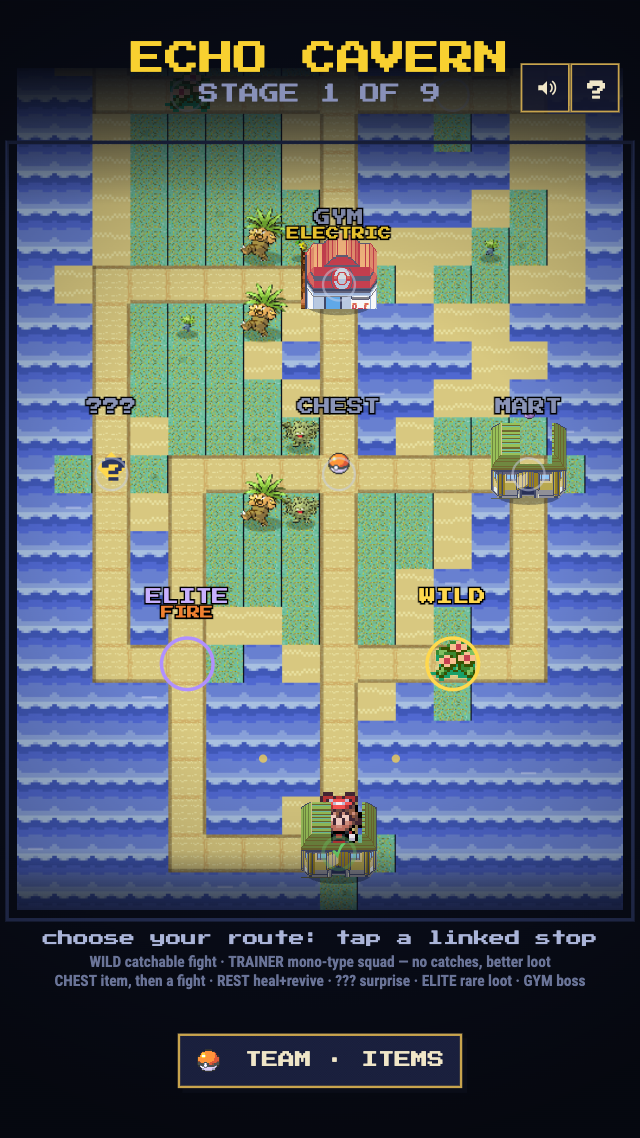
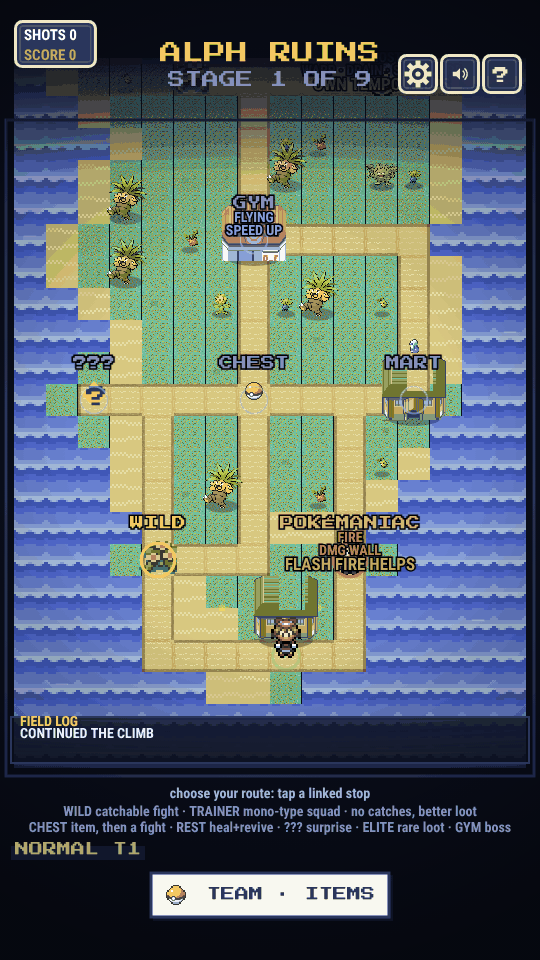
Refresh README screenshots and feature list, map new modules, backfill tracker

diff --git a/README.md b/README.md
@@ -3,34 +3,39 @@
 **Monster Strike physics in a Pokémon skin, with a Slay the Spire climb.**
 Pull back, launch your Pokémon, and bounce it around the arena smashing wild
 mons. Draft a team of 4, climb 9 stages, and take down all three gym
-leaders to win the run — or hit **DAILY** for the one seed everyone's
-climbing today.
+leaders to win the run.
 
 **Play it:** https://albisourous.github.io/pokestrike/
 
-| Title | Draft | Battle |
+| Climb home | Shop | Mons |
 | --- | --- | --- |
-| ![title screen](docs/title.png) | ![draft round](docs/draft.png) | ![battle](docs/battle.png) |
+| ![CLIMB tab: hero court, CONTINUE pill, ascension ladder](docs/title.png) | ![SHOP tab: prize counter, free pull, daily deal](docs/shop.png) | ![MONS tab: party stage, EDIT TEAM, dex and line sets](docs/mons.png) |
 
-| Region map | Aiming | Reward |
+| Raid | Town | Climb map |
 | --- | --- | --- |
-| ![region map](docs/map.png) | ![aiming](docs/aim.png) | ![relic reward](docs/reward.png) |
+| ![RAID tab: themed boss lobby](docs/raid.png) | ![TOWN tab: Gen 3 village with lab, hall, board and trophies](docs/town.png) | ![seeded region map with linked stops](docs/map.png) |
 
-| Ult armed | Team ultimate | Help manual |
+| Battle banner | Boss bar 3 · rage | Damage walls + field blocks |
 | --- | --- | --- |
-| ![charged gauge, tap a teammate](docs/ult-ready.png) | ![FLARE RAIN team ultimate](docs/ult.png) | ![how to play manual](docs/help.png) |
+| ![GYM BATTLE telop over the court](docs/battle.png) | ![RAGE telop on the last boss bar, attack countdowns overhead](docs/boss-rage.png) | ![DMG WALL edge with Rock Smash, Cut and Strength cells](docs/walls.png) |
 
-| Charm pick | Trainer battle | ? Event |
+| Clear card | Move animation | Team ultimate |
 | --- | --- | --- |
-| ![starting charm](docs/charm.png) | ![trainer battle](docs/trainer.png) | ![event stop](docs/event.png) |
+| ![CLEAR card with S rank ball and run stats](docs/clear.png) | ![foe PSYBEAM cross beam mid-play](docs/anim.png) | ![ULTIMATE THUNDERBOLT across the court](docs/ult.png) |
 
-| Wave mutator | Mines | Boss weak point |
-| --- | --- | --- |
-| ![swarm wave](docs/mutator.png) | ![mine hazard](docs/mines.png) | ![gym weak point](docs/weakpoint.png) |
+## What's in it
 
-| Victory loot | Soul-linked pair | Power zone + auras |
-| --- | --- | --- |
-| ![coin shower after a gym](docs/loot.png) | ![zombie pair tether](docs/zombie.png) | ![power zone, gravity aura, skull mark](docs/powerzone.png) |
+- **Monster Strike shot physics** · time-boxed speed decay and the hit-damage floor, ported from the 3DS game's own code. Bank shots, ally bumps, combo chains.
+- **Attack clocks** · every foe shows a turn countdown over its head and fires a typed move when it hits zero. Kill it or move it.
+- **Boss bars** · gym bosses fight across 3 HP bars, each a fresh authored court with new adds. The weak spot moves every bar, and bar 3 is RAGE: faster clocks, Reflect guards.
+- **Stop structure** · wild stops run 2 to 4 battles with a turn par; finish under it for SPEED CLEAR.
+- **Stage gimmicks** · damage walls that fade in and cycle by turn, gravity wells, warp pairs, boost panels, barriers. The right **ability** counters each one, and the draft hints which mons do.
+- **Field-move blocks** · Rock Smash rocks (3 hits), Cut trees (2, or 1 from Grass), Strength boulders that shove one cell.
+- **Bullet pickups** · drain moves, berry drops, PP Up, Chesto, Safeguard, plus the Oran → Sitrus ripen.
+- **Clear ranks** · each stop ends on a CLEAR card: S/A/B/C rank ball, turns, max combo, weak hits, KOs, damage taken, per-stage bests.
+- **Telops and Gen 3 animations** · Monster Strike-style banners for battle start, boss, phase, clear and ULT, and move sprites from pokeemerald's battle anims.
+- **Real cries** · at boss intros, KOs, ultimates and catches.
+- **Home tabs** · SHOP prize counter, MONS party stage + dex, CLIMB court with the ascension ladder, RAID boss lobby, TOWN village with lab, board, hall and trophies.
 
 ## How to play
 
@@ -49,8 +54,7 @@ ghost pull that repeats until you've really slung one.
 
 1. Hit **START CLIMB** for a 9-stage climb (Slay the Spire style): random wild
    stages, a **gym leader** every 3rd stage, bigger and meaner packs as you
-   go, and a win only when the third gym falls. Or hit **DAILY** — the same
-   UTC-date seed for everyone, so today's climb is one shared mountain.
+   go, and a win only when the third gym falls.
    Every run is fully seeded (the island, the draft deals, every roll all
    reproduce): share cards carry a `?seed=` link that deals the exact same
    climb, and `?seed=NNN` by hand pins any seed for debugging. Enemy typing is hidden (`?`)
@@ -341,9 +345,13 @@ src/
   core/    vec.ts, loop.ts, assets.ts, rng.ts,  # engine plumbing
            audio.ts                             # chiptune music + synth sfx + haptics
   game/    types.ts, data.ts, stats.ts,         # rules + stat formulas
-           perks.ts, bg.ts, meta.ts,            # items, backdrops, persistence
-           map.ts, maptiles.ts,                  # seeded region map + atlas tiles
-           battle.ts, screens.ts                 # battle scene + title/draft/result
+           abilities.ts, perks.ts, traits.ts,   # abilities, items, type traits
+           bg.ts, meta.ts, tasks.ts,            # backdrops, persistence, daily board
+           map.ts, maptiles.ts, events.ts,      # seeded region map, atlas tiles, ? stops
+           battle.ts, telop.ts, anim.ts,        # battle scene, banners, move animations
+           screens.ts, ui.ts                    # overlays + draft/result, menu chrome
+  game/home/ shop.ts, mons.ts, climb.ts,        # home tab bodies
+             raid.ts, town.ts
   main.ts                                       # canvas fit + scene state
 public/  sprites/ (mons, items, gracidea, cries), manifest.webmanifest, sw.js, icons
 ```

diff --git a/TRACKER.md b/TRACKER.md
@@ -277,3 +277,35 @@ draft/charm/map/wave/pause, wide+mobile letterbox. Zero console errors.
 | 2026-10-25 | `6258dd1` | timing | gold band breathes wider pull-to-pull: pace ±28%, window ±45%, center ±0.18 | `git revert 6258dd1` |
 | 2026-10-25 | `6258dd1` | text | FloatText y-clamped inside the frame; STRIKES/ULT tags clamp above the rim; coach line lifts off the low props; roster/lab/task/event descs ellipsize instead of spilling | `git revert 6258dd1` |
 | 2026-10-25 | `6258dd1` | reward | fresh catch lights the TEAM · ITEMS pill gold — SWAP THE NEW CATCH IN before the relic board | `git revert 6258dd1` |
+| 2026-11-01 | `5411862` | battle | `foeDrop()` keeps foes hidden through court scroll; `landFoes()` starts after landing (#10) | `git revert 5411862` |
+| 2026-11-01 | `3ded584` | boss | `ROOM_BOSS` gives each gym HP bar its own court; pillars and moat corners shape later phases (#11) | `git revert 3ded584` |
+| 2026-11-01 | `00ebde1` | arena | `BLOCK_TINT`/`BLOCK_FACE` brighten rock cover; `drawWall` caps treetops below HUD (#12) | `git revert 00ebde1` |
+| 2026-11-01 | `589d467` | battle | `BATTLE_SKIP` rolls 2 to 4 battles per plain stop; `ENEMY_MAX` caps each foe pack (#13) | `git revert 589d467` |
+| 2026-11-01 | `4746aa3` | hud | `PAR_PER_BATTLE`/`PAR_BOSS` set stop turn par; clears on par pay SPEED CLEAR (#14) | `git revert 4746aa3` |
+| 2026-11-01 | `60d6291` | hud | `N LEFT · TURN` combines battle counts; `pushText` coalesces callouts; pause holds extra stats (#15) | `git revert 60d6291` |
+| 2026-11-01 | `b660bb9` | battle | `foeClocks()` adds telegraphed type moves; boss move sets shift by HP bar (#16) | `git revert b660bb9` |
+| 2026-11-01 | `f2c0242` | arena | `floors` caches eleven tiled courts; wall frames and deterministic atlas motes replace floor scatter (#17) | `git revert f2c0242` |
+| 2026-11-02 | `45dfb47` | battle | Data-driven court gimmicks add typed damage walls, Reflect shields, gravity panels and Psychic wells (#18) | `git revert 45dfb47` |
+| 2026-11-02 | `bf61463` | rooms | Grounded Gracidea props; add 8 mid-pool and 2 hard-tail room layouts (#19) | `git revert bf61463` |
+| 2026-11-02 | `327514e` | hud | `ULT` becomes a shared 244×52 target with one-time teaching; keep wall callouts inside the court and clear of HUD (#20) | `git revert 327514e` |
+| 2026-11-02 | `5ff43bb` | physics | `shotDamp()` adds fourth-power time decay; `launchMult()` clamps the Speed curve (#21) | `git revert 5ff43bb` |
+| 2026-11-02 | `020a405` | telop | `Telops` queue adds priority and deduped battle banners with Pokémon art and tap-to-skip (#22) | `git revert 020a405` |
+| 2026-11-02 | `52d5382` | anim | `MOVE_ANIM`/`recipeFor()` map foe moves, supers and ULTs to capped Gen 3 sprite effects and telegraphs (#23) | `git revert 52d5382` |
+| 2026-11-02 | `ecb6525` | physics | `hitFloor()` keeps landed chip hits at 1; type immunity stays at zero; round-2 code.bin notes (#24) | `git revert ecb6525` |
+| 2026-11-02 | `a796694` | rooms | Rock Smash, Cut and Strength add 8 breakable/pushable rooms; keep spawn routes reachable (#25) | `git revert a796694` |
+| 2026-11-02 | `284321e` | boss | `bossBarBreak()` shifts weak points; final bar adds rage, a signature move and Reflect guards (#26) | `git revert 284321e` |
+| 2026-11-02 | `626e6de` | battle | Canonical abilities add hazard/wall counters and team hints; 14 abilities trigger combat rules (#27) | `git revert 626e6de` |
+| 2026-11-02 | `a99f824` | clear | `clearRank` adds S/A/B/C stop cards; `recordClear` saves per-stage bests and rank payouts (#28) | `git revert a99f824` |
+| 2026-11-02 | `ebc6d16` | anim | `finZoom()` adds last-KO slow-mo; `dmgNumSize()` and `comboPitch()` tune hit feedback (#29) | `git revert ebc6d16` |
+| 2026-11-02 | `5faa9fb` | battle | `BULLET_GIMMICKS` adds drain moves, Oran drops, PP Up, Chesto and Safeguard (#30) | `git revert 5faa9fb` |
+| 2026-11-02 | `3d7a959` | docs | `monster-strike-re.md` records round-3 turn loop, enemy countdown and damage-wall timing (#31) | `git revert 3d7a959` |
+| 2026-11-02 | `cae4e1f` | hud | `foeTag()` and `placeLabel()` trim field labels; first-use pickup tags and overlap nudging (#32) | `git revert cae4e1f` |
+| 2026-11-02 | `ea44320` | battle | `DAMAGE_WALL_PHASES` cycle walls by turn with arming fades and a NEXT TURN warning (#33) | `git revert ea44320` |
+| 2026-11-02 | `f4b41f4` | clear | `fitFont()` shrinks clear-card values to fit beside labels on narrow screens (#34) | `git revert f4b41f4` |
+| 2026-11-02 | `77ca25d` | audio | `cry()` plays legacy Pokémon cries at boss intros, KOs, ULTs and catches; cache capped at 48 (#35) | `git revert 77ca25d` |
+| 2026-11-02 | `5d3987c` | raid | `drawRaidLobby()` previews daily boss, weakness hints, loaners and boosted rewards; themed court and UTC refresh (#36) | `git revert 5d3987c` |
+| 2026-11-02 | `181e9ea` | shop | `drawShopScene()` builds prize counter; FREE PULL starts a pack, deal and ×10 stay one tap away (#37) | `git revert 181e9ea` |
+| 2026-11-02 | `abd1b94` | climb | `drawClimb()` adds stage-1 court, START/CONTINUE, ascension ladder and shop/raid side doors (#38) | `git revert abd1b94` |
+| 2026-11-02 | `f7f7208` | mons | `drawMonsBody()` centers party stage and EDIT TEAM; dex grid and detail move to home module (#39) | `git revert f7f7208` |
+| 2026-11-02 | `ab3d304` | town | `drawTownBody()` frames the Gen 3 village; sign plates, street villagers and larger nav icons (#40) | `git revert ab3d304` |
+| 2026-11-02 | `663c330` | roster | `drawRoster()` fits type chips on grounded team cards; `teamSlotRect` moves with the row (#41) | `git revert 663c330` |

diff --git a/AGENTS.md b/AGENTS.md
@@ -43,18 +43,30 @@ server, 540×960 letterboxed logical space, custom circle physics.
 ## Layout
 
 - `src/core/` — engine plumbing: `vec.ts` (vector math), `loop.ts` (rAF loop), `assets.ts` (sprite cache), `audio.ts` (synth SFX + haptics)
+- `src/core/rng.ts` — seeded `mulberry32` pseudo-random number generator.
 - `src/game/data.ts` — all content: roster/enemy species with canonical base stats, stage waves (normalized arena coords), seeded stage generator, `ROOM_LAYOUTS` 9×11 Archero room pool + `buildRoom` compiler
 - `src/game/stats.ts` — stat-to-mechanic formulas (Atk/Def = physical, SpA/SpD = special, Spe = movement)
+- `src/game/perks.ts` — perk and bag-item definitions, effect ticking, and reward rolls.
 - `src/game/types.ts` — Pokémon type chart + colors
+- `src/game/abilities.ts` — canonical ability data, hazard and gimmick counters, and battle ability effects.
 - `src/game/battle.ts` — battle scene: slingshot physics, turns, damage, bump combos, enemy AI, rendering + the region-map interstitial
+- `src/game/anim.ts` — capped Gen 3 battle-animation pool, move recipes, and matching danger tells.
+- `src/game/telop.ts` — queues and draws battle banners with priority, deduplication, and Pokémon art.
 - `src/game/map.ts` — seeded island generator for the climb map (value-noise terrain, decor); a fixed-lane StS tree: triplets of fork(2 battle doors) → fan(3 utility doors) → gym(1), edges deterministic by lane (door→own side+center, fan→gym, gym→both doors); tile draws key magenta from the gracidea tileset
 - `src/game/events.ts` — the `?`-stop event pool (heals, catches, ambush scripted waves, egg)
 - `src/game/traits.ts` — tiered type traits from fielded mons (shiny counts double)
 - `src/game/ui.ts` — the menu-window chrome kit: palette (INK/PAPER/PARCH/GOLD), fonts (`font`/`fontB`), `uiWindow`/`uiBand`/`uiPanel` (double-framed paper windows + INK title band), `uiRow` (list rows, `on`=ink slab, `hot`=gold slab + ▶), `cursorTri` (blinking ▶), `scrim`, `uiClose`. Every panel/overlay draws through these — design spec: `docs/superpowers/specs/2026-10-22-menu-ux-overhaul.md`
 - `src/game/maptiles.ts` — `TILE_*` source rects into `tileset.webp` for the map
+- `src/game/bg.ts` — cached themed arena tiles and scenery with wall, cover, moat, backdrop, and ambient passes.
 - `src/game/meta.ts` — localStorage persistence: dex catches, rank, rival echo, mid-run save (`pk_run` banked at map safe points, CONTINUE on title), decision telemetry (`pk_stats`), and the earned-progression stores — stars/dust wallets, pulls + pity, lab, board, login calendar, rookie ladder, dex-reward tiers, free pull, streaks, first-win, session grind, mon bond (`pk_bond` per-species career pts → dust). New stores are unversioned shape-checked blobs (`load` + field validation + `mem*` fallback); only a `pk_*` shape change in a versioned blob needs `SAVE_VER` + `migrateSaves()`
 - `src/game/tasks.ts` — daily/weekly task board + the UTC-seeded daily picks (`featuredPull` rate-up, `raidPick`/`raidTeam` chroma raid, `dealPick`/`dealCost` spark deal); seeded `do/while` picks are iteration-capped
-- `src/game/screens.ts` — all drawing + hit rects: title home menu (ambient wilds, TODAY card, currency bar), draft offers (from `draftOrder(rng)` in `data.ts`), result card, and the overlays — hatcher (pull theatre + spark shop), lab, tasks, dex, trophies, board, help deck
+- `src/game/daily.ts` — defines the shared UTC-seeded daily rule cards and selects the day's rule.
+- `src/game/home/climb.ts` — CLIMB court scene, lead roster, start/continue action, ascension ladder, and side doors.
+- `src/game/home/mons.ts` — MONS party stage, Pokédex register/detail cards, and party-stage hit tests.
+- `src/game/home/raid.ts` — daily raid lobby scene, boss weaknesses, counter hints, and reward preview.
+- `src/game/home/shop.ts` — cached prize-counter scene with live clerk, rate-up Pokémon, and shop props.
+- `src/game/home/town.ts` — framed village scene, building tap rectangles, and villager strolls.
+- `src/game/screens.ts` — all drawing + hit rects: title home menu (ambient wilds, TODAY card, currency bar; home tab bodies now live in `src/game/home/`), draft offers (from `draftOrder(rng)` in `data.ts`), result card, and the overlays — hatcher (pull theatre + spark shop), lab, tasks, dex, trophies, board, help deck
 - `src/main.ts` — canvas sizing, scene state machine, pointer routing
 - `public/sprites/gracidea/` — scenery canon (see Direction): `tileset`, `npcs` WebP atlases + JSON frame indexes (16px frames, magenta key)
 - `public/sprites/<id>.png` — 64×64 FRLG battle fronts by dex id, vendored from PokeAPI/sprites
